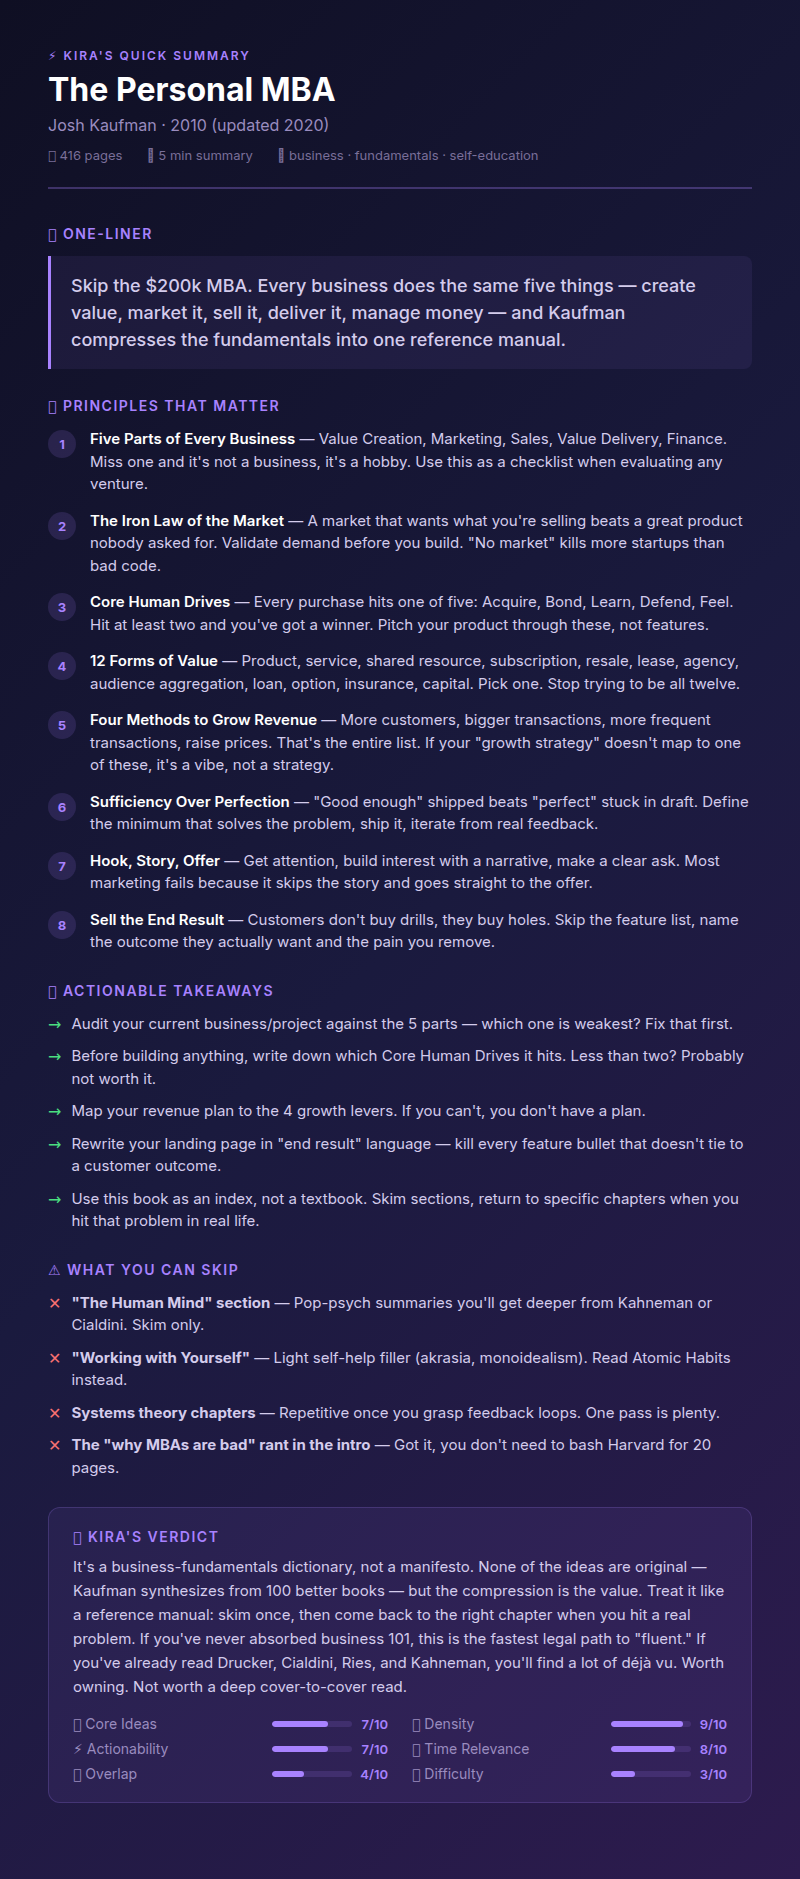
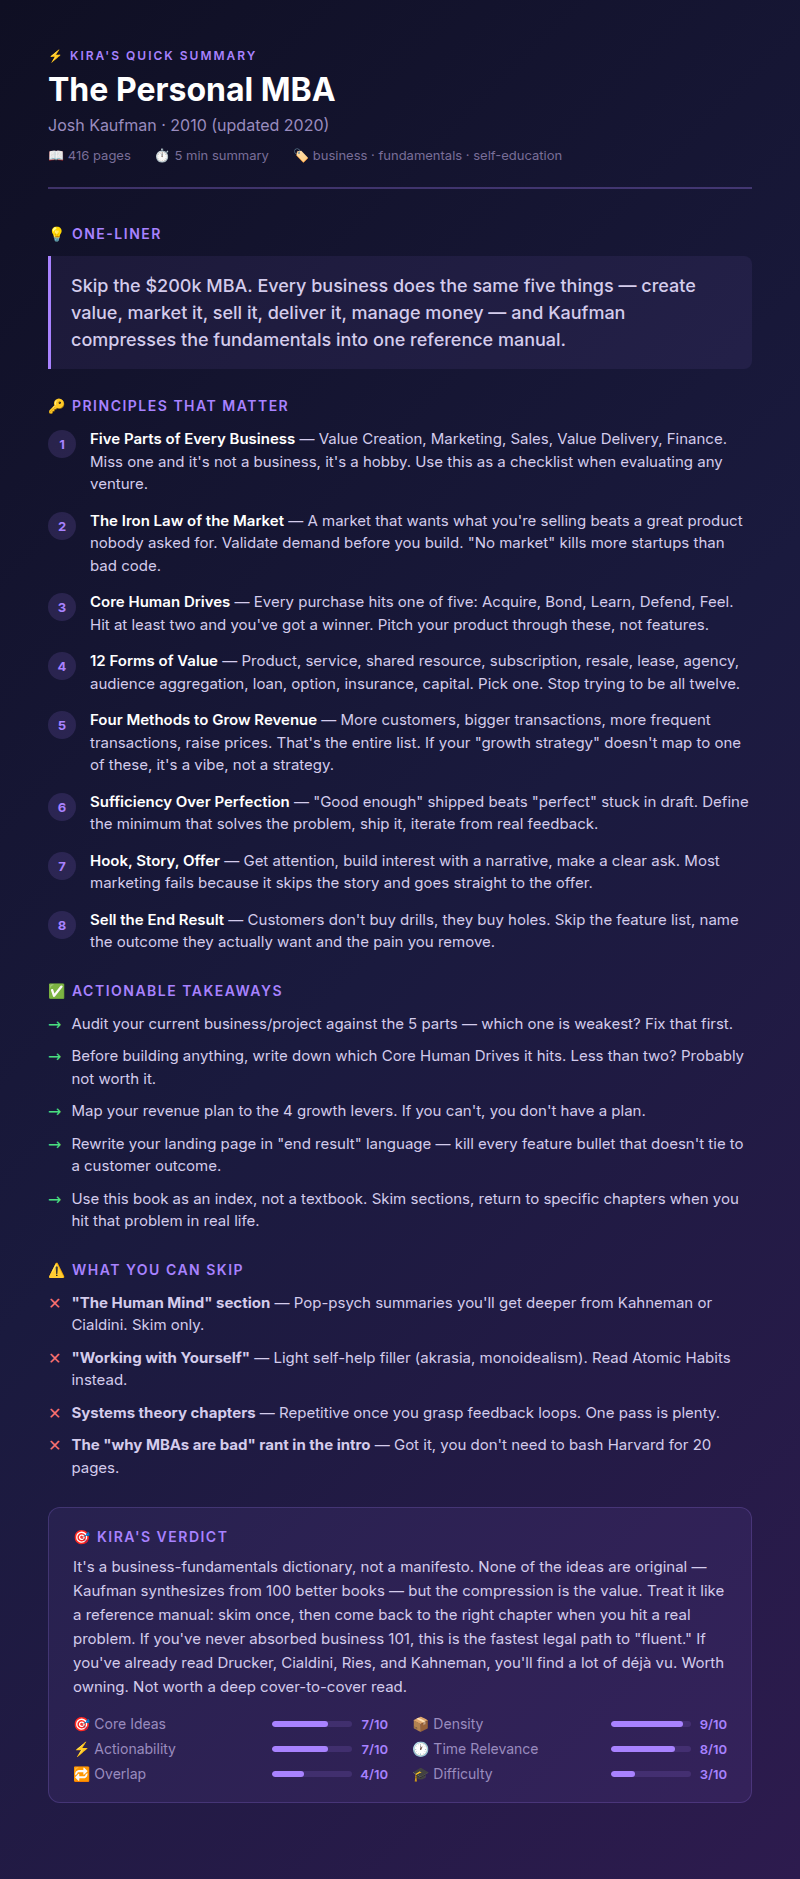
auto: daily sync 2026-04-29

diff --git a/skills/book-summary/template.html b/skills/book-summary/template.html
@@ -2,13 +2,13 @@
 <html>
 <head>
 <meta charset="UTF-8">
+<link href="https://fonts.googleapis.com/css2?family=Inter:wght@400;500;600;700&display=swap" rel="stylesheet">
+<link href="https://fonts.googleapis.com/css2?family=Noto+Color+Emoji&display=swap" rel="stylesheet">
 <style>
-  @import url('https://fonts.googleapis.com/css2?family=Inter:wght@400;500;600;700&display=swap');
-
   * { margin: 0; padding: 0; box-sizing: border-box; }
 
   body {
-    font-family: 'Inter', sans-serif;
+    font-family: 'Inter', 'Noto Color Emoji', sans-serif;
     background: linear-gradient(135deg, #0f0f23 0%, #1a1a3e 50%, #2d1b4e 100%);
     color: #e8e6f0;
     width: 800px;

diff --git a/skills/book-summary/SKILL.md b/skills/book-summary/SKILL.md
@@ -67,3 +67,4 @@ Use the template in `template.html`. Fill in:
 - [2026-04-17] [[book-summary]] 6-factor rating system: Core Ideas, Density, Actionability, Shelf Life, Uniqueness, Writing Quality. Visual bars in verdict section. Images stored in books/assets/, embedded via ![[Book Title.png]].
 - [2026-04-20] [[book-summary]] Model can hallucinate book content — pulled from training-data reviews/excerpts, not actual PDFs. Core frameworks reliable for famous books, but exact quotes/details aren't guaranteed. For high-stakes summaries, verify against actual book text/PDFs (e.g. ingest to NotebookLM first).
 - [2026-04-20] [[book-summary]] Chrome sandbox env fix: agent-browser's bundled chrome (at ~/.agent-browser/browsers/chrome-*/chrome) needs LD_LIBRARY_PATH set + --no-sandbox flag. Wrapper script installed — original binary preserved as chrome.real, wrapper exports LD_LIBRARY_PATH pointing to /home/claude/volatclaw/shared/chrome-libs/extracted/usr/lib/x86_64-linux-gnu and exec's real chrome with --no-sandbox. If book-summary screenshots break with libatk/sandbox errors, re-verify this wrapper.
+- [2026-04-29] [[book-summary]] Headless chrome не имеет цветного эмодзи-шрифта. Фикс в template.html: <link> на Noto Color Emoji в <head> + добавить 'Noto Color Emoji' в body font-family. Без этого все цветные эмодзи рендерятся как tofu-боксы. Зафиксили на Personal MBA 2026-04-29.
